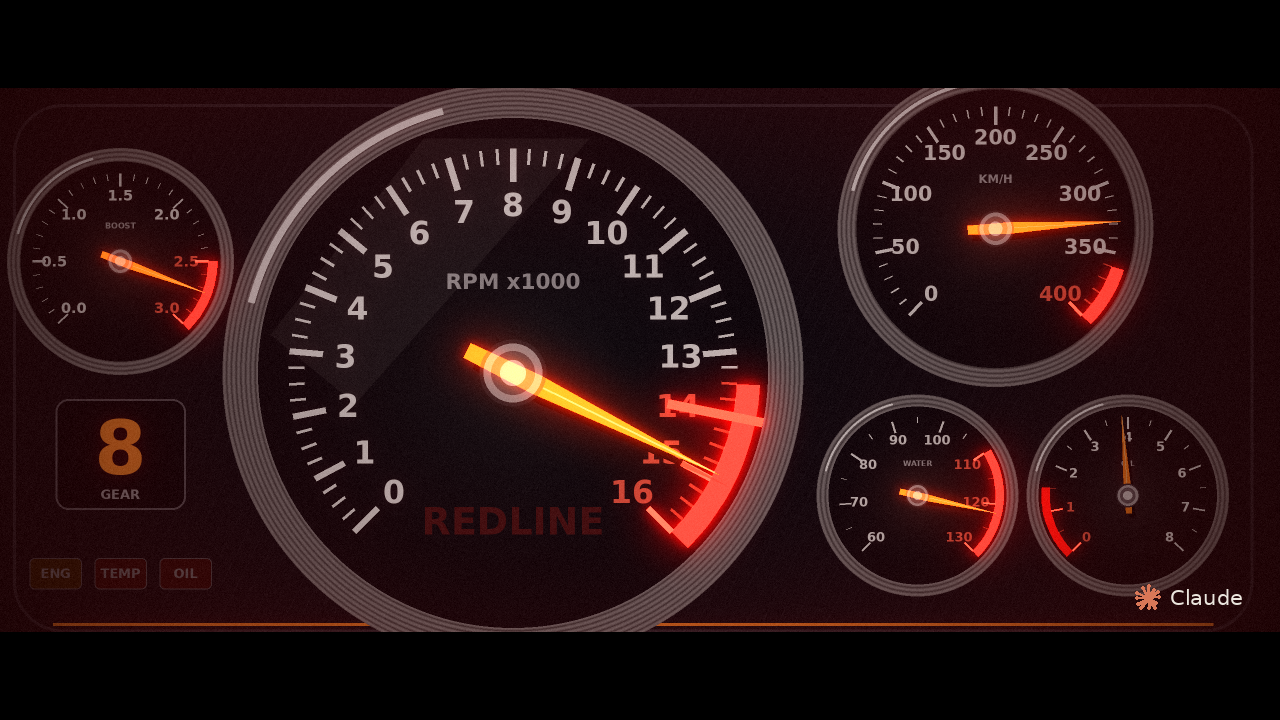
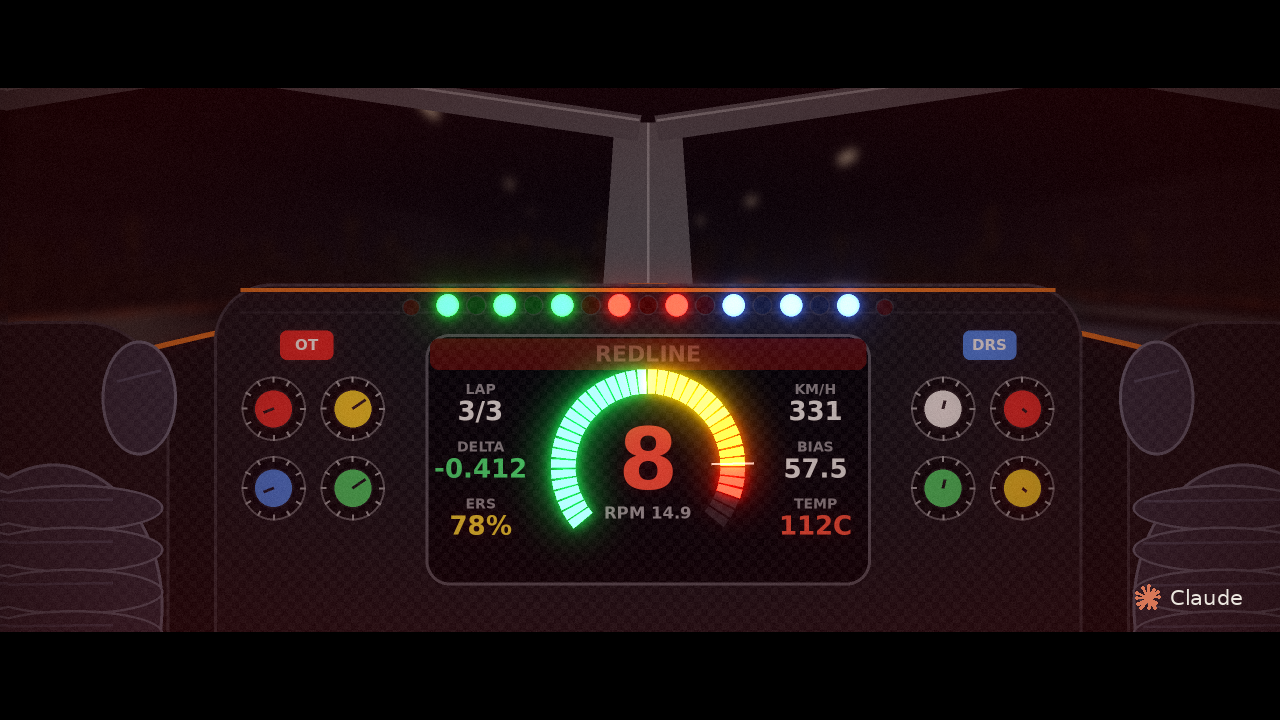
Redline close-up: real F1 steering wheel cockpit view (halo, LED rev strip, LCD ring tachometer, rotaries, gloves)
Claude-Session: https://claude.ai/code/session_01VdfstcG9SycLHRcMYRkco1

diff --git a/video/race.py b/video/race.py
@@ -593,145 +593,163 @@ def _font(size):
     return _FONTS[size]
 
 
-def _gauge(d, g, S, cx, cy, R, vmin, vmax, val, major, minors, red=None, title="", fmt="{:.0f}", heat=0.0,
-           hero=False, needle=(255, 112, 28)):
-    """通用机械仪表：金属表圈 + 黑色表盘 + 刻度/数字 + 红区 + 锥形指针。cx, cy, R 为放大 S 倍后的像素。"""
-    span = vmax - vmin
-    th = lambda v_: np.radians(225 - 270 * (v_ - vmin) / span)
-    pt = lambda v_, rad: (cx + rad * np.cos(th(v_)), cy - rad * np.sin(th(v_)))
-    fnt = lambda size: _font(max(8, int(size)))
-    T = int(0.14 * R)
-    for k in range(T):                                              # 金属表圈（同心环模拟拉丝）
-        rad = R + T - k
-        c = int(46 + 64 * abs(np.sin(k * 0.33 + 0.6)))
-        d.ellipse([cx - rad, cy - rad, cx + rad, cy + rad], fill=(c, c, int(c * 1.04)))
-    d.arc([cx - R - T * 0.55, cy - R - T * 0.55, cx + R + T * 0.55, cy + R + T * 0.55], 195, 255,
-          fill=(235, 235, 240), width=max(2, int(T * 0.2)))
-    for k in range(30):                                             # 表盘
-        rad = R * (1 - k / 30)
-        c = int(5 + 15 * (k / 30) ** 2)
-        d.ellipse([cx - rad, cy - rad, cx + rad, cy + rad], fill=(c, c, c + 2))
-    if red:
-        vs = np.linspace(red[0], red[1], 30)
-        band = [pt(x, R * 0.97) for x in vs] + [pt(x, R * 0.88) for x in vs[::-1]]
-        d.polygon(band, fill=(190, 20, 20))
-        g.polygon(band, fill=(int(255 * (0.3 + 0.7 * heat)), int(30 * heat), int(25 * heat)))
-    n = int(round(span / major * minors))
-    for i in range(n + 1):
-        v_ = vmin + i * major / minors
-        is_major = i % minors == 0
-        in_red = red is not None and red[0] <= v_ <= red[1] + 1e-6
-        ln = 0.13 if is_major else 0.06
-        wd = max(1, int(R * (0.026 if is_major else 0.013)))
-        col = (255, 70, 55) if in_red else (228, 228, 232)
-        d.line([pt(v_, R * 0.88), pt(v_, R * (0.88 - ln))], fill=col, width=wd)
-        if in_red and is_major:
-            g.line([pt(v_, R * 0.88), pt(v_, R * (0.88 - ln))], fill=(255, 40, 30), width=wd)
-        if is_major:
-            x_, y_ = pt(v_, R * 0.66)
-            d.text((x_, y_), fmt.format(v_), font=fnt(R * (0.125 if hero else 0.15)), fill=(255, 80, 65) if in_red else (232, 232, 236), anchor="mm")
-    if title:
-        d.text((cx, cy - R * 0.36), title, font=fnt(R * 0.085), fill=(150, 150, 158), anchor="mm")
-    a_ = th(val)
-    ca, sa = np.cos(a_), np.sin(a_)
-    w = R * 0.04
-    loc = [(R * 0.90, 0), (R * 0.10, w), (-R * 0.20, w * 0.8), (-R * 0.20, -w * 0.8), (R * 0.10, -w)]
-    nd = lambda off=(0, 0): [(cx + off[0] + x * ca + y * sa, cy + off[1] - x * sa + y * ca) for x, y in loc]
-    d.polygon(nd((R * 0.035, R * 0.045)), fill=(2, 2, 3))
-    d.polygon(nd(), fill=needle)
-    d.line([(cx + R * 0.10 * ca, cy - R * 0.10 * sa), (cx + R * 0.88 * ca, cy - R * 0.88 * sa)],
-           fill=(255, 205, 140), width=max(1, int(R * 0.008)))
-    if heat > 0:
-        g.polygon(nd(), fill=(int(200 * heat), int(55 * heat), int(10 * heat)))
-    for rad, col in ((R * 0.13, (30, 30, 34)), (R * 0.115, (150, 150, 156)), (R * 0.085, (70, 70, 76)), (R * 0.05, (200, 200, 205))):
-        d.ellipse([cx - rad, cy - rad, cx + rad, cy + rad], fill=col)
-
-
 def dash_frame(t):
-    """仪表台特写：大转速表（主角）+ 时速表 + 水温 + 机油 + 涡轮增压 + 挡位 + 警示灯。
-    转速表指针冲进红区，其余各表也一起进入危险区，整个画面泛红闪烁；3 秒内镜头缓慢推向转速表。"""
+    """真实 F1 风格的座舱特写（车手视角）：halo 防滚架 + 碳纤维方向盘 + 顶部 15 颗转速灯 + 中央液晶屏（环形转速弧 + 挡位）
+    + 两侧彩色旋钮 + 戴手套的双手。转速弧一段段点亮，冲进红区后屏幕、转速灯、整个画面一起报警。"""
     S = 2
     p = float(np.clip((t - DASH_T0) / (DASH_T1 - DASH_T0), 0, 1))
     W, H = OW * S, OH * S
-    base = Image.new("RGB", (W, H), (7, 7, 10))
-    d = ImageDraw.Draw(base)
+    fg = Image.new("RGBA", (W, H), (0, 0, 0, 0))
+    d = ImageDraw.Draw(fg)
     glow = Image.new("RGB", (W, H), (0, 0, 0))
     g = ImageDraw.Draw(glow)
     rr = np.random.default_rng(int(round(t * FPS)) + 7)
-    hx, hy = 520.0, 365.0
-    z = 1.0 + 0.10 * p                                              # 缓慢推近
-    Z = lambda x, y, r: ((hx + (x - hx) * z) * S, (hy + (y - hy) * z) * S, r * z * S)
+    hx, hy = 640.0, 500.0
+    z = 1.0 + 0.12 * p                                              # 缓慢推近
+    T = lambda x, y: ((hx + (x - hx) * z) * S, (hy + (y - hy) * z) * S)
+    K = z * S
 
-    # 仪表台底板：碳纤维斜纹 + 橙色饰线
-    for k_ in range(-700, 1400, 16):
-        d.line([(k_ * S, 0), ((k_ - 360) * S, H)], fill=(13, 13, 17), width=S)
-    d.rounded_rectangle([20 * S, 96 * S, 1260 * S, 624 * S], radius=50 * S, outline=(30, 30, 36), width=3 * S)
-    d.line([(60 * S, 616 * S), (1220 * S, 616 * S)], fill=(236, 104, 34), width=3 * S)
+    def poly(pts, fill, dr=None):
+        (dr or d).polygon([T(*q) for q in pts], fill=fill)
 
-    # 读数
+    def rrect(x0, y0, x1, y1, rad, fill, outline=None, width=0, dr=None):
+        (dr or d).rounded_rectangle([*T(x0, y0), *T(x1, y1)], radius=rad * K, fill=fill, outline=outline, width=int(width * K))
+
+    def ell(x, y, r, fill, outline=None, width=0, dr=None, ry=None):
+        cx_, cy_ = T(x, y)
+        (dr or d).ellipse([cx_ - r * K, cy_ - (ry or r) * K, cx_ + r * K, cy_ + (ry or r) * K], fill=fill, outline=outline, width=int(width * K))
+
+    def line(pts, fill, width, dr=None):
+        (dr or d).line([T(*q) for q in pts], fill=fill, width=max(1, int(width * K)))
+
+    def text(x, y, s_, size, fill, dr=None, anchor="mm"):
+        (dr or d).text(T(x, y), s_, font=_font(max(8, int(size * K))), fill=fill, anchor=anchor)
+
+    # ---- 读数
     v = 5.0 + 10.2 * (1 - (1 - p) ** 2.2)
     v += 0.16 * np.sin(t * 95) * smooth(v, 13.8, 14.6) + rr.normal(0, 0.05) * p
     heat = float(np.clip((v - 13.5) / 1.2, 0, 1))
-    spd = 250 + 100 * p ** 1.2 + rr.normal(0, 1.5) * heat
-    tmp = 88 + 36 * smooth(p, 0.1, 1.0) + rr.normal(0, 0.4) * heat
-    oil = 5.0 - 1.4 * p + 0.15 * np.sin(t * 60) * p
-    bst = 0.8 + 1.9 * smooth(p, 0.0, 0.9) + 0.05 * np.sin(t * 70) * heat
-
-    # 副表（先画，主表压在上面）：时速表（中）、水温 / 机油（小）、涡轮增压（小）
-    cx_, cy_, r_ = Z(965, 232, 128)
-    _gauge(d, g, S, cx_, cy_, r_, 0, 400, spd, 50, 5, red=(360, 400), title="KM/H", heat=heat)
-    cx_, cy_, r_ = Z(893, 478, 82)
-    _gauge(d, g, S, cx_, cy_, r_, 60, 130, tmp, 10, 2, red=(110, 130), title="WATER", heat=smooth(tmp, 108, 118))
-    cx_, cy_, r_ = Z(1087, 478, 82)
-    _gauge(d, g, S, cx_, cy_, r_, 0, 8, oil, 1, 2, red=(0, 1.5), title="OIL", heat=0.0)
-    cx_, cy_, r_ = Z(158, 262, 92)
-    _gauge(d, g, S, cx_, cy_, r_, 0, 3, bst, 0.5, 5, red=(2.5, 3.0), title="BOOST", fmt="{:.1f}", heat=smooth(bst, 2.3, 2.8))
-
-    # 左下：挡位小屏 + 三个警示灯
-    gx, gy, gw = Z(158, 440, 60)
-    d.rounded_rectangle([gx - gw, gy - gw * 0.85, gx + gw, gy + gw * 0.85], radius=gw * 0.2, fill=(3, 3, 5),
-                        outline=(70, 70, 78), width=2 * S)
-    d.text((gx, gy - gw * 0.1), str(7 if p < 0.55 else 8), font=_font(int(gw * 1.15)), fill=(236, 120, 40), anchor="mm")
-    d.text((gx, gy + gw * 0.62), "GEAR", font=_font(int(gw * 0.2)), fill=(130, 130, 140), anchor="mm")
+    alert = v > 14.0
     flash = int(t * 8) % 2 == 0
-    for i_, (name, lit, col) in enumerate((("ENG", heat > 0.2 and flash, (255, 160, 20)),
-                                           ("TEMP", tmp > 110 and flash, (255, 50, 40)),
-                                           ("OIL", False, (255, 50, 40)))):
-        lx, ly, lw = Z(98 + i_ * 60, 550, 24)
-        d.rounded_rectangle([lx - lw, ly - lw * 0.6, lx + lw, ly + lw * 0.6], radius=lw * 0.2,
-                            fill=col if lit else tuple(int(c * 0.14) for c in col), outline=(60, 60, 66), width=S)
-        d.text((lx, ly), name, font=_font(int(lw * 0.5)), fill=(20, 8, 8) if lit else (90, 90, 96), anchor="mm")
+    spd = int(250 + 100 * p ** 1.2)
+    orange = (236, 104, 34, 255)
+
+    # ---- halo 防滚架（在方向盘前方，中间立柱 + 两侧弧臂）
+    poly([(610, 170), (670, 170), (682, 340), (598, 340)], (66, 68, 74, 255))
+    line([(640, 170), (640, 340)], (118, 120, 128, 255), 2.5)
+    for sg in (-1, 1):
+        line([(640 + sg * 8, 175), (640 + sg * 400, 118), (640 + sg * 600, 150)], (58, 60, 66, 255), 24)
+        line([(640 + sg * 8, 168), (640 + sg * 400, 111), (640 + sg * 600, 143)], (112, 114, 122, 255), 3)
+
+    # ---- 座舱仪表台（碳纤维 + 橙色涂装饰线），两侧低中间高
+    xs = np.linspace(-40, 1320, 40)
+    top = [(x, 318 + 0.00028 * (x - 640) ** 2) for x in xs]
+    poly(top + [(1320, 760), (-40, 760)], (12, 12, 15, 255))
+    line(top, orange, 5)
+
+    # ---- 方向盘主体：中央身 + 左右握把（碳纤维黑 + 橙色边线）
+    carbon, edge = (17, 17, 21, 255), (44, 44, 52, 255)
+    for sg in (-1, 1):
+        rrect(640 + sg * 540 - 105, 350, 640 + sg * 540 + 105, 780, 80, carbon, edge, 3)
+    rrect(246, 316, 1034, 790, 52, carbon, edge, 3)
+    line([(270, 322), (1010, 322)], orange, 4)
+    line([(270, 342), (1010, 342)], (30, 30, 36, 255), 2)
+
+    # ---- 15 颗转速灯（绿 5 / 红 5 / 蓝 5）+ 两侧报警灯
+    n_on = int(np.clip((v - 7.0) / 7.0, 0, 1) * 15 + 0.5)
+    for i in range(15):
+        x = 640 + (i - 7) * 26
+        col = (40, 255, 90) if i < 5 else (255, 40, 30) if i < 10 else (80, 130, 255)
+        on = i < n_on
+        if on and alert:
+            on = flash or i % 2 == 0
+        ell(x, 336, 9, col + (255,) if on else tuple(int(c * 0.14) for c in col) + (255,), (36, 36, 42, 255), 1.5)
+        if on:
+            ell(x, 336, 10, col, dr=g)
+    for sg in (-1, 1):
+        lit = alert and flash
+        ell(640 + sg * 215, 338, 8, (255, 40, 30, 255) if lit else (50, 10, 10, 255), (36, 36, 42, 255), 1.5)
         if lit:
-            g.rounded_rectangle([lx - lw, ly - lw * 0.6, lx + lw, ly + lw * 0.6], radius=lw * 0.2, fill=col)
+            ell(640 + sg * 215, 338, 9, (255, 40, 30), dr=g)
 
-    # 主角：转速表（最大），REDLINE 粗刻线 + 警示字
-    cx_, cy_, r_ = Z(hx, hy, 235)
-    _gauge(d, g, S, cx_, cy_, r_, 0, 16, v, 1, 4, red=(13.5, 16.0), title="RPM x1000", heat=heat, hero=True)
-    ang = np.radians(225 - 270 * 14 / 16)
-    p1 = (cx_ + r_ * 1.0 * np.cos(ang), cy_ - r_ * 1.0 * np.sin(ang))
-    p2 = (cx_ + r_ * 0.62 * np.cos(ang), cy_ - r_ * 0.62 * np.sin(ang))
-    d.line([p1, p2], fill=(255, 40, 30), width=int(9 * z * S))
-    g.line([p1, p2], fill=(255, 40, 30), width=int(9 * z * S))
-    on = v > 14 and int(t * 8) % 2 == 0
-    for dr_ in ((d, g) if on else (d,)):
-        dr_.text((cx_, cy_ + r_ * 0.58), "REDLINE", font=_font(int(r_ * 0.15)), fill=(255, 45, 35) if on else (60, 14, 14), anchor="mm")
-    # 主表玻璃反光
-    refl = Image.new("L", (W, H), 0)
-    ImageDraw.Draw(refl).polygon([(cx_ - r_ * 0.95, cy_ - r_ * 0.15), (cx_ - r_ * 0.35, cy_ - r_ * 0.92),
-                                  (cx_ + r_ * 0.30, cy_ - r_ * 0.92), (cx_ - r_ * 0.62, cy_ + r_ * 0.12)], fill=13)
-    msk = Image.new("L", (W, H), 0)
-    ImageDraw.Draw(msk).ellipse([cx_ - r_, cy_ - r_, cx_ + r_, cy_ + r_], fill=255)
-    rf = np.asarray(refl).astype(np.float32) / 255 * np.asarray(msk).astype(np.float32) / 255
+    # ---- 中央液晶屏
+    border = (255, 50, 40, 255) if (alert and flash) else (70, 70, 80, 255)
+    rrect(438, 362, 842, 590, 22, (3, 4, 7, 255), border, 3)
+    N = 40
+    ccx, ccy, r_in, r_out = 640, 482, 66, 88
+    for i in range(N):
+        a0 = np.radians(220 - 260 * i / N)
+        a1 = np.radians(220 - 260 * (i + 0.8) / N)
+        pts = [(ccx + r_out * np.cos(a0), ccy - r_out * np.sin(a0)), (ccx + r_out * np.cos(a1), ccy - r_out * np.sin(a1)),
+               (ccx + r_in * np.cos(a1), ccy - r_in * np.sin(a1)), (ccx + r_in * np.cos(a0), ccy - r_in * np.sin(a0))]
+        fi = (i + 0.5) / N
+        col = (60, 230, 110) if fi < 0.5 else (250, 210, 50) if fi < 0.72 else (255, 130, 30) if fi < 0.84 else (255, 40, 30)
+        lit = (i + 0.5) / N <= v / 16.0
+        poly(pts, col + (255,) if lit else (28, 30, 36, 255))
+        if lit:
+            poly(pts, col, g)
+    ang = np.radians(220 - 260 * 0.84)                              # 红线刻度
+    line([(ccx + (r_in - 8) * np.cos(ang), ccy - (r_in - 8) * np.sin(ang)), (ccx + (r_out + 8) * np.cos(ang), ccy - (r_out + 8) * np.sin(ang))],
+         (255, 255, 255, 255), 2.5)
+    text(ccx, ccy - 6, str(7 if p < 0.55 else 8), 78, (255, 70, 55, 255) if alert else (236, 236, 240, 255))
+    text(ccx, ccy + 42, "RPM %.1f" % v, 15, (150, 150, 160, 255))
+    for (lx, rows) in ((488, (("LAP", "3/3", (236, 236, 240)), ("DELTA", "-0.412", (60, 230, 110)), ("ERS", "78%", (250, 210, 50)))),
+                       (792, (("KM/H", str(spd), (236, 236, 240)), ("BIAS", "57.5", (236, 236, 240)), ("TEMP", "112C" if p > 0.7 else "104C", (255, 70, 55) if p > 0.7 else (236, 236, 240))))):
+        for k_, (lab, val, col) in enumerate(rows):
+            y0_ = 412 + k_ * 52
+            text(lx, y0_, lab, 13, (130, 130, 140, 255))
+            text(lx, y0_ + 20, val, 24, col + (255,))
+    # REDLINE 横幅：进入红区后红底白字闪烁
+    if alert:
+        rrect(442, 366, 838, 394, 8, (230, 25, 25, 255) if flash else (70, 10, 10, 255))
+        text(640, 380, "REDLINE", 20, (255, 255, 255, 255) if flash else (140, 60, 60, 255))
+        if flash:
+            rrect(442, 366, 838, 394, 8, (255, 40, 30), dr=g)
 
-    arr = np.asarray(base).astype(np.float32) / 255 + rf[..., None]
-    gl = np.asarray(glow).astype(np.float32) / 255 * (1.3 + 1.4 * heat)
-    dn = lambda x: x.reshape(OH, S, OW, S, 3).mean(axis=(1, 3))
-    img = dn(arr) + dn(gl)
+    # ---- 两侧彩色旋钮 / 按键
+    for (bx, by, col) in ((300, 430, (230, 40, 40)), (372, 430, (240, 200, 40)), (300, 502, (60, 120, 235)), (372, 502, (60, 200, 90)),
+                          (908, 430, (235, 235, 238)), (980, 430, (230, 40, 40)), (908, 502, (60, 200, 90)), (980, 502, (240, 200, 40))):
+        ell(bx, by, 29, (8, 8, 10, 255), (84, 84, 92, 255), 2)
+        for k_ in range(12):
+            a_ = k_ * np.pi / 6
+            line([(bx + 24 * np.cos(a_), by + 24 * np.sin(a_)), (bx + 29 * np.cos(a_), by + 29 * np.sin(a_))], (150, 150, 158, 255), 2)
+        ell(bx, by, 18, col + (255,), (20, 20, 24, 255), 1.5)
+        line([(bx, by), (bx + 12 * np.cos(bx * 0.05), by - 12 * np.sin(bx * 0.05 + 1.0))], (20, 20, 24, 255), 3)
+    for (bx, by, lab, col) in ((330, 372, "OT", (225, 35, 35)), (950, 372, "DRS", (60, 120, 235))):
+        rrect(bx - 26, by - 15, bx + 26, by + 15, 8, col + (255,), (20, 20, 24, 255), 2)
+        text(bx, by, lab, 14, (255, 255, 255, 255))
+
+    # ---- 戴手套的双手（握住握把，大拇指搭在内侧）
+    glove, glove_e, glove_l = (40, 42, 58, 255), (96, 100, 124, 255), (66, 70, 94, 255)
+    for sg in (-1, 1):
+        gx = 640 + sg * 540
+        ell(gx, 610, 100, glove, glove_e, 3, ry=130)
+        for k_ in range(4):                                         # 四指
+            yk = 520 + k_ * 38
+            ell(gx - sg * 18, yk, 82, glove, glove_e, 2.5, ry=21)
+            line([(gx - 90, yk - 6), (gx + 54, yk - 8)], glove_l, 3)
+        ell(gx - sg * 78, 420, 34, glove, glove_e, 3, ry=52)        # 大拇指
+        line([(gx - sg * 78 - 20, 405), (gx - sg * 78 + 20, 395)], glove_l, 3)
+        line([(gx - 96, 650), (gx + 96, 650)], orange, 8)           # 手套橙色饰条
+
+    # ---- 背景：赛道前方景象（虚化 + 压暗），上方透出
+    bg = gaussian_filter(env_blur(t), (5, 5, 0)) * 0.55
+    arr = np.asarray(fg).astype(np.float32) / 255
+    # 碳纤维编织纹
+    yy_, xx_ = np.mgrid[0:H, 0:W]
+    weave = (((xx_ // (7 * S) + yy_ // (7 * S)) % 2).astype(np.float32) - 0.5) * 0.028
+    dn3 = lambda x: x.reshape(OH, S, OW, S, 3).mean(axis=(1, 3))
+    a1 = arr[..., 3:4]
+    rgb = (arr[..., :3] + weave[..., None] * (arr[..., :3].mean(axis=2, keepdims=True) < 0.2)) * a1
+    rgb, al = dn3(rgb), dn3(np.repeat(a1, 3, axis=2))[..., :1]
+    gl = dn3(np.asarray(glow).astype(np.float32) / 255) * (1.3 + 1.4 * heat)
+    img = bg * (1 - al) + rgb + gl
+    # 进入红区：整个画面泛红、随节拍闪烁
     yy, xx = np.mgrid[0:OH, 0:OW]
-    edge = np.clip(np.hypot((xx - OW / 2) / (OW / 2), (yy - OH / 2) / (OH / 2)), 0, 1.3)
+    edge_ = np.clip(np.hypot((xx - OW / 2) / (OW / 2), (yy - OH / 2) / (OH / 2)), 0, 1.3)
     pulse = 0.6 + 0.4 * np.sin(t * 2 * np.pi * 4)
-    img += (heat * pulse * (0.12 + 0.45 * edge ** 2))[..., None] * np.array([1.0, 0.04, 0.03], np.float32)
-    sh = 1.0 + 7 * heat
+    img += (heat * pulse * (0.10 + 0.40 * edge_ ** 2))[..., None] * np.array([1.0, 0.04, 0.03], np.float32)
+    sh = 1.0 + 6 * heat
     return np.roll(img, (int(rr.normal(0, sh)), int(rr.normal(0, sh))), axis=(0, 1)).astype(np.float32)
 
 
